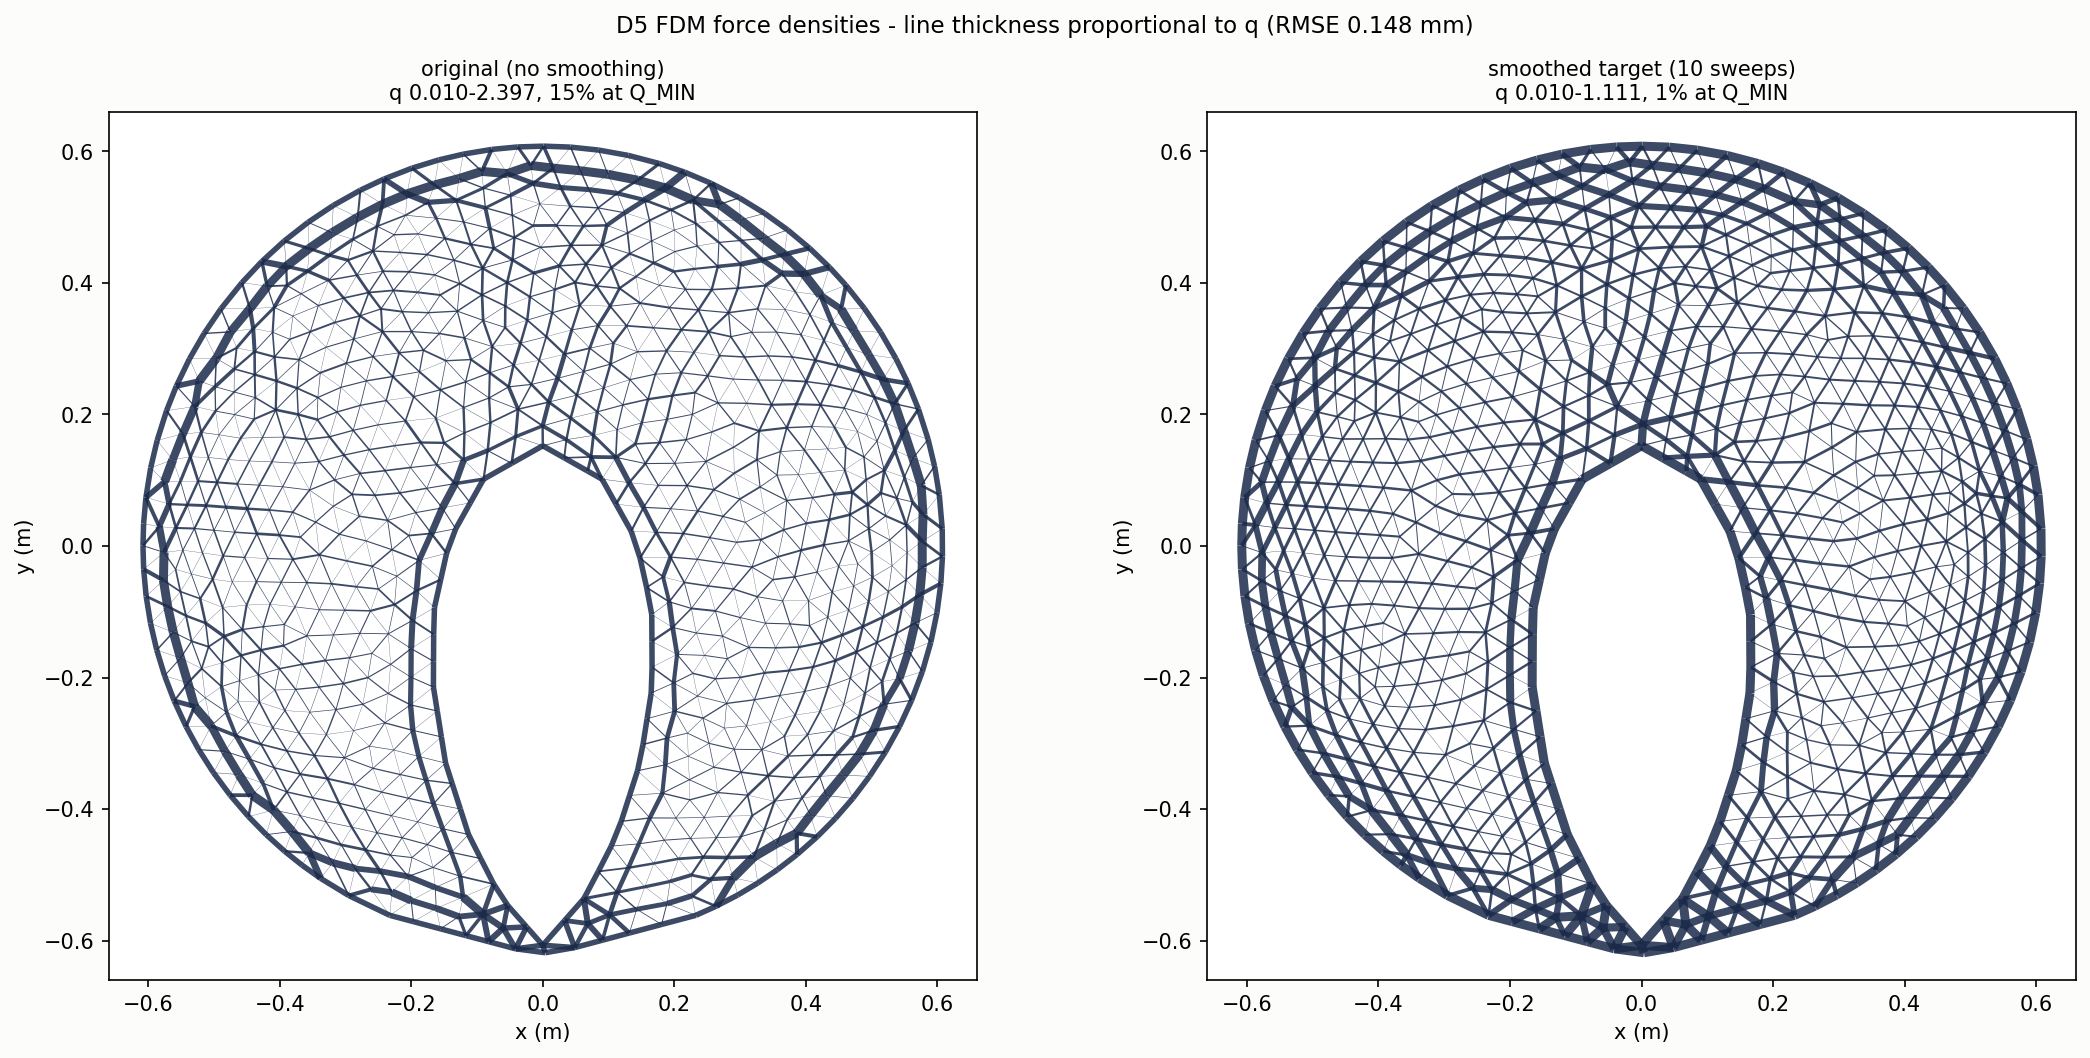
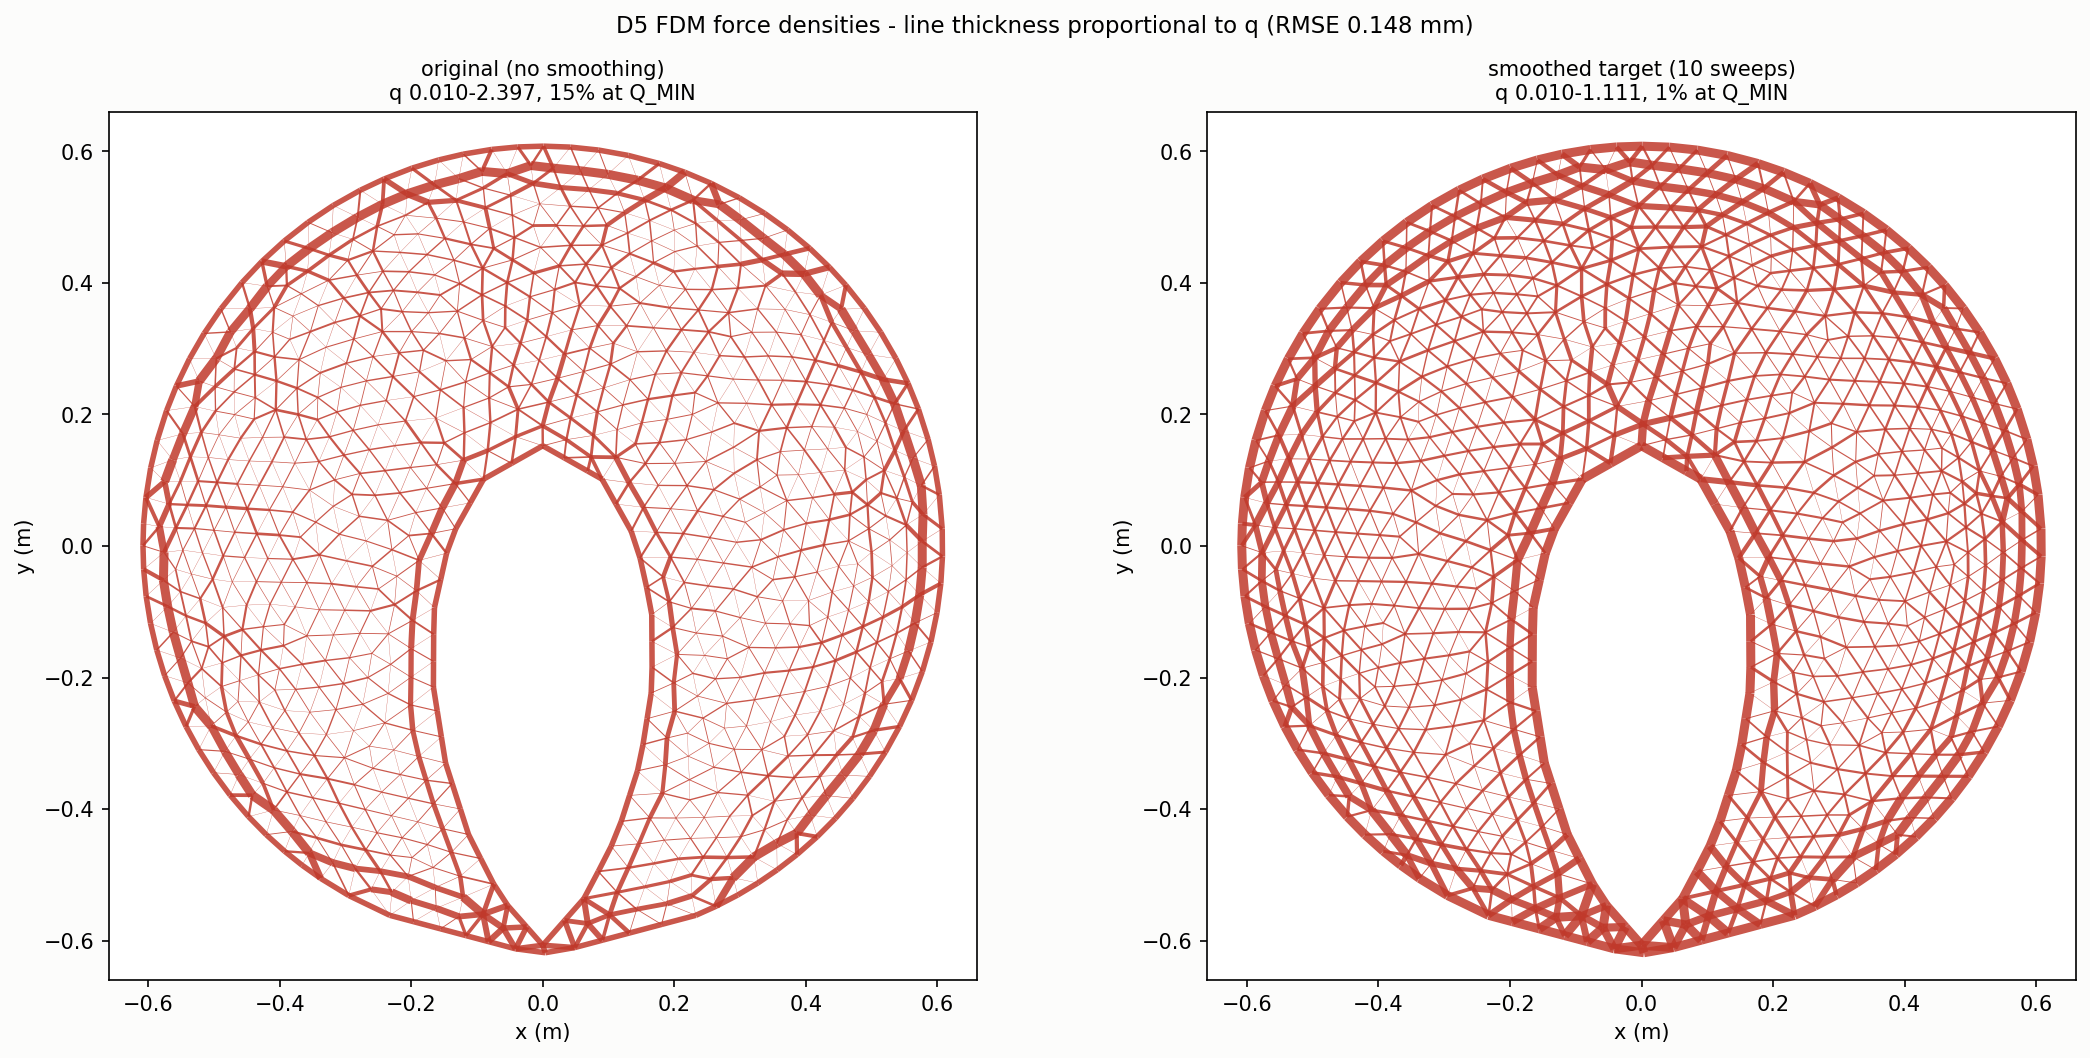
Draw the D5 q figure in red
--color sets the pipe colour, defaulting to red.

Changed region(s): [[0.5909, 0.1248, 0.9952, 0.9045], [0.0622, 0.1248, 0.4665, 0.9045]]

diff --git a/FDM/fofin_D5_smooth.py b/FDM/fofin_D5_smooth.py
@@ -61,6 +61,8 @@ _ap = argparse.ArgumentParser()
 _ap.add_argument("--lap-iters",  type=int,   default=10)
 _ap.add_argument("--lap-lambda", type=float, default=0.5)
 _ap.add_argument("--no-smooth",  action="store_true")
+_ap.add_argument("--color", type=str, default="#c0392b",
+                 help="pipe colour in the q figure")
 ARGS = _ap.parse_args()
 
 V_target, F = load_obj(INPUT)
@@ -267,7 +269,7 @@ for ax, (qq, PP, name) in zip(axes, panels):
     ref98 = np.percentile(qq, 98)
     lw = 0.12 + 4.2 * np.clip(qq / ref98, 0, 1)
     ax.add_collection(LineCollection(PP[:, :, :2], linewidths=lw,
-                                     colors="#1b2a4a", alpha=0.85))
+                                     colors=ARGS.color, alpha=0.85))
     ax.set_xlim(-0.66, 0.66); ax.set_ylim(-0.66, 0.66); ax.set_aspect("equal")
     ax.set_xlabel("x (m)"); ax.set_ylabel("y (m)")
     ax.set_title(f"{name}\nq {qq.min():.3f}-{qq.max():.3f}, "
